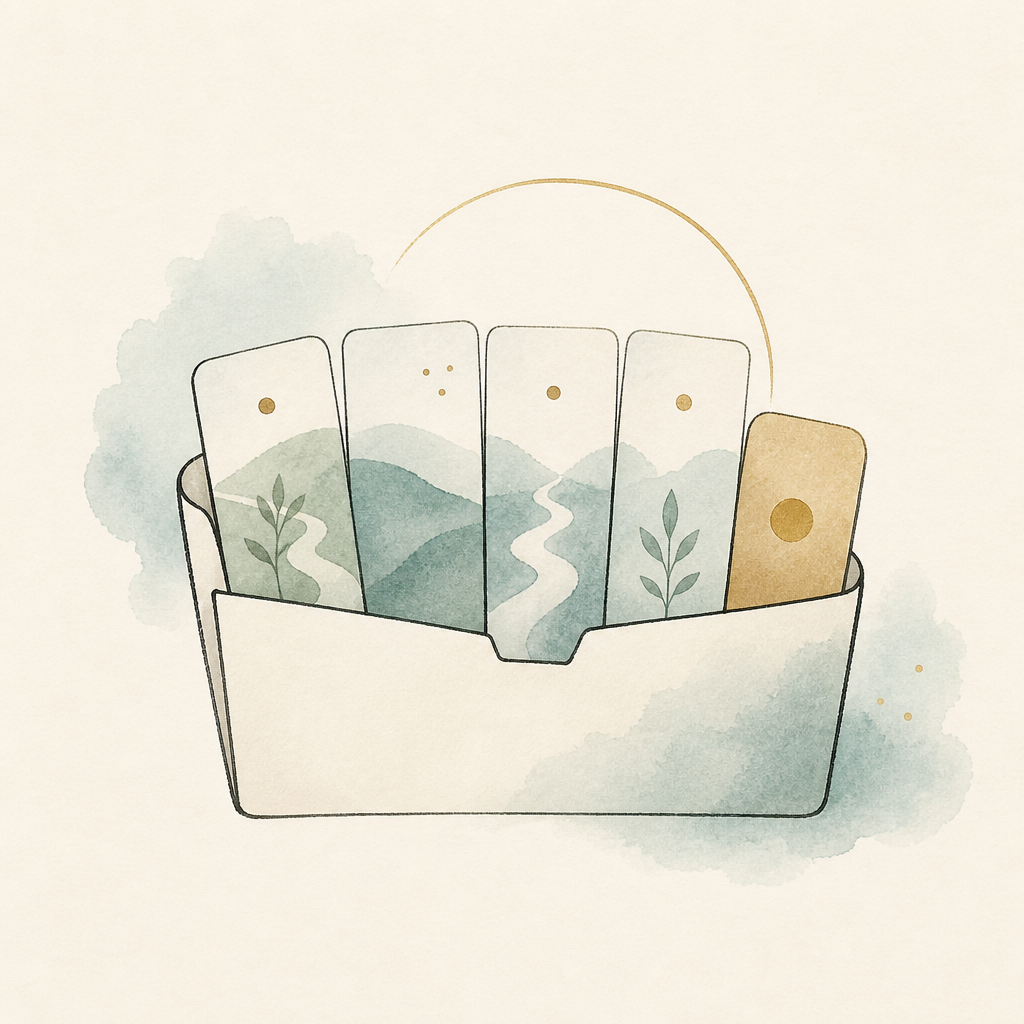
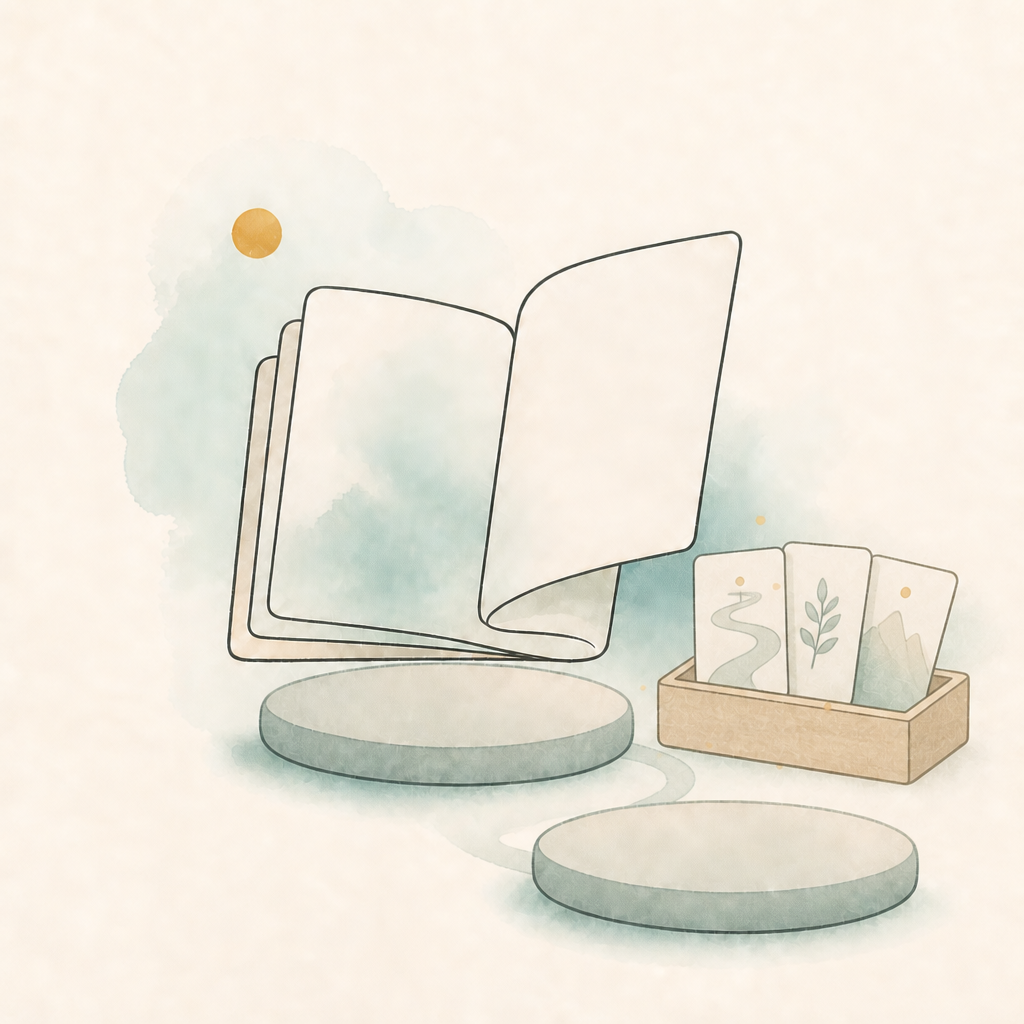
Replace package art with an additive A-to-E watercolor series.
Each level keeps prior motifs and adds one package-related element so the ladder reads as progressive support.

diff --git a/content/artGallery.ts b/content/artGallery.ts
@@ -474,8 +474,8 @@ export const artGallery: readonly ArtGalleryItem[] = [
     title: "Package A - Free Start",
     category: "healing-packages",
     src: "/art/watercolor/art-watercolor-package-free-start.png",
-    alt: "Minimal watercolor illustration of an open booklet beside a soft pathway mark, suggesting free tools to begin healing.",
-    prompt: `${basePrompt} Show a simple open booklet with one gentle pathway mark, suggesting free tools and a first step into healing.`,
+    alt: "Minimal watercolor illustration of an open booklet with a soft teal wash and gold pause circle, suggesting free tools to begin healing.",
+    prompt: `${basePrompt} Additive package series image A (base only): open booklet with soft teal wash and muted gold pause circle. Free Start — tools to begin. No other package motifs yet.`,
     palette: sharedPalette,
     usage: "Healing packages path, compare, and detail cards for Package A Free Start.",
   },
@@ -484,8 +484,8 @@ export const artGallery: readonly ArtGalleryItem[] = [
     title: "Package B - Foundation Plan",
     category: "healing-packages",
     src: "/art/watercolor/art-watercolor-package-foundation.png",
-    alt: "Minimal watercolor illustration of one stepping stone with a soft teal wash and gold pause ring, suggesting foundation support.",
-    prompt: `${basePrompt} Show one solid stepping stone with a soft teal wash and small gold pause ring, suggesting affordable foundation support.`,
+    alt: "Minimal watercolor illustration of an open booklet plus one foundation stepping stone under a gold pause circle, suggesting essential monthly support.",
+    prompt: `${basePrompt} Additive package series image B: keep A's open booklet, teal wash, and gold pause; ADD one solid foundation stepping stone for Essential support.`,
     palette: sharedPalette,
     usage: "Healing packages path, compare, and detail cards for Package B Foundation Plan.",
   },
@@ -494,8 +494,8 @@ export const artGallery: readonly ArtGalleryItem[] = [
     title: "Package C - Transformation Plan",
     category: "healing-packages",
     src: "/art/watercolor/art-watercolor-package-transformation.png",
-    alt: "Minimal watercolor illustration of two connected stepping stones on a curved path, suggesting deeper personal support.",
-    prompt: `${basePrompt} Show two connected stepping stones along a gentle curved path with a deeper teal wash, suggesting going deeper into healing support.`,
+    alt: "Minimal watercolor illustration of an open booklet, foundation stone, and a second deeper stone linked by a curved path, suggesting going deeper.",
+    prompt: `${basePrompt} Additive package series image C: keep A's booklet and B's foundation stone; ADD a second deeper stone with a gentle connecting path (three motifs total).`,
     palette: sharedPalette,
     usage: "Healing packages path, compare, and detail cards for Package C Transformation Plan.",
   },
@@ -504,8 +504,8 @@ export const artGallery: readonly ArtGalleryItem[] = [
     title: "Package D - Complete Healing Plan",
     category: "healing-packages",
     src: "/art/watercolor/art-watercolor-package-complete-healing.png",
-    alt: "Minimal watercolor illustration of an open folder with four pathway cards and a gold pause mark, suggesting a comprehensive healing journey.",
-    prompt: `${basePrompt} Show an open folder with a structured pathway of four soft cards and one gold pause mark, suggesting a comprehensive four-month healing journey.`,
+    alt: "Minimal watercolor illustration of booklet, path stones, and a wooden tray of journey cards, suggesting a complete structured healing plan.",
+    prompt: `${basePrompt} Additive package series image D: keep A–C motifs (booklet, foundation stone, deeper stones with path); ADD a small wooden tray of upright journey cards (four motifs total).`,
     palette: sharedPalette,
     usage: "Healing packages path, compare, and detail cards for Package D Complete Healing Plan.",
   },
@@ -514,8 +514,8 @@ export const artGallery: readonly ArtGalleryItem[] = [
     title: "Package E - Master Plan Fast Track",
     category: "healing-packages",
     src: "/art/watercolor/art-watercolor-package-master-fast-track.png",
-    alt: "Minimal watercolor illustration of eight path marks on a short concentrated arc inside a circle, suggesting intensive fast-track healing.",
-    prompt: `${basePrompt} Show a short concentrated arc of eight small path marks within one month-like circle, suggesting intensive fast-track healing commitment.`,
+    alt: "Minimal watercolor illustration of booklet, path stones, journey-card tray, and a crescent moon over an intensive winding path, suggesting fast-track healing.",
+    prompt: `${basePrompt} Additive package series image E: keep A–D motifs; ADD a crescent moon and a more concentrated winding stone path for intensive Fast Track (five motifs total).`,
     palette: sharedPalette,
     usage: "Healing packages path, compare, and detail cards for Package E Master Plan Fast Track.",
   },
